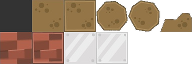
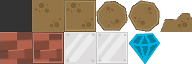
add diamonds

Changed region(s): [[0.6562, 0.5, 0.8438, 1.0]]

diff --git a/src/screens/MainScreen.js b/src/screens/MainScreen.js
@@ -6,6 +6,8 @@
 
         sheet: new Ω.SpriteSheet("res/tiles.png", 32, 32),
 
+        diamonds: 0,
+
         init: function () {
 
             var self = this;
@@ -16,9 +18,9 @@
                 [7, 2, 7, 4, 2, 4, 4, 4, 2, 7],
                 [7, 2, 2, 4, 2, 2, 2, 4, 2, 7],
                 [7, 2, 2, 2, 2, 2, 4, 4, 2, 7],
-                [7, 2, 7, 2, 2, 4, 2, 4, 2, 7],
-                [7, 2, 7, 7, 2, 4, 2, 2, 2, 7],
-                [7, 2, 2, 2, 2, 4, 2, 2, 2, 7],
+                [7, 3, 7, 2, 2, 4, 2, 4, 2, 7],
+                [7, 3, 7, 7, 2, 4, 2, 2, 2, 7],
+                [7, 3, 3, 2, 2, 4, 2, 2, 2, 7],
                 [7, 2, 2, 2, 2, 2, 2, 2, 2, 7],
                 [7, 2, 2, 2, 2, 2, 2, 2, 2, 7],
                 [7, 2, 2, 2, 2, 2, 2, 6, 2, 7],
@@ -26,7 +28,7 @@
                 [7, 2, 7, 4, 2, 4, 4, 4, 2, 7],
                 [7, 2, 2, 4, 2, 5, 4, 4, 2, 7],
                 [7, 2, 2, 2, 2, 2, 4, 4, 2, 7],
-                [7, 2, 2, 2, 2, 2, 2, 2, 2, 7],
+                [7, 3, 2, 2, 2, 2, 2, 2, 3, 7],
                 [7, 7, 7, 7, 7, 7, 7, 7, 7, 7],
             ], 2));
 
@@ -39,6 +41,10 @@
                     switch (c) {
                     case 2:
                         block = new blocks.Dirt(i, j);
+                        break;
+                    case 3:
+                        self.diamonds++;
+                        block = new blocks.Diamond(i, j);
                         break;
                     case 4:
                         block = new blocks.Boulder(i, j);
@@ -65,14 +71,6 @@
 
         },
 
-        eat: function (x, y) {
-            if (this.map.cells[y][x].type === "dirt") {
-                this.map.setBlockCell([x, y], new blocks.Empty(x, y));
-                return true;
-            }
-            return false;
-        },
-
         tick: function () {
             if (Ω.input.pressed("moused")) {
                 this.handleClick(Ω.input.mouse.x, Ω.input.mouse.y);
@@ -81,6 +79,14 @@
             if (Ω.input.pressed("touch")) {
                 this.handleClick(Ω.input.touch.x, Ω.input.touch.y);
             }
+        },
+
+        diamondGet: function () {
+
+            if (--this.diamonds === 0) {
+                game.reset();
+            }
+
         },
 
         handleClick: function (x, y) {
@@ -95,6 +101,12 @@
         render: function (gfx) {
 
             this.clear(gfx, "hsl(1, 1%, 1%)");
+
+            var c = gfx.ctx;
+
+            c.fillStyle = "#999";
+            c.fillText(this.diamonds, 10, Ω.env.h - 10);
+            c.fillText(this.player.xc + ":" + this.player.yc, Ω.env.w - 24, Ω.env.h - 10);
 
         }
     });

diff --git a/src/entities/Player.js b/src/entities/Player.js
@@ -4,8 +4,8 @@
 
     var Player = Ω.Entity.extend({
         
-        xc: 0,
-        yc: 0,
+        xc: 1,
+        yc: 1,
 
         dir: "",
 
@@ -66,7 +66,9 @@
             this.move(xo, yo, this.map);
 
             var xc = this.x / this.cellW | 0,
-                yc = this.y / this.cellH | 0;
+                yc = this.y / this.cellH | 0,
+                oldXc = this.xc,
+                oldYc = this.yc;
 
             // Check if new cell...
             if (xc !== this.xc || yc !== this.yc) {
@@ -75,10 +77,16 @@
                 if (this.xc === this.tx && this.yc === this.ty) {
 
                 } else {
-                    if (this.level.eat(xc, yc)) {
-                        this.map.cells[yc][xc] = blocks.PLAYER;
-                    };
-                    this.map.cells[this.yc][this.xc] = new blocks.Empty(this.xc, this.yc, 0);
+                    var block = this.map.cells[yc][xc].type;
+                    this.map.cells[oldYc][oldXc] = new blocks.Empty(oldXc, oldYc);
+                    
+                    if (block === "dirt") {
+                        this.map.setBlockCell([xc, yc], new blocks.Empty(xc, yc));
+                    } else if (block === "diamond") {
+                        this.map.setBlockCell([xc, yc], new blocks.Empty(xc, yc));
+                        this.level.diamondGet();
+                    }
+                    this.map.setBlockCell([xc, yc], blocks.PLAYER);
                 }
             }
 

diff --git a/src/blocks/Block.js b/src/blocks/Block.js
@@ -85,6 +85,13 @@
 	});
 	blocks.PLAYER = new blocks.Player(0, 0);
 
+	blocks.Diamond = Block.extend({
+		type: "diamond",
+		walkable: true,
+		row: 1,
+		col: 4
+	});
+
 	blocks.Dirt = Block.extend({
 		type: "dirt",
 		walkable: true,
@@ -100,7 +107,7 @@
 	blocks.Explosive = Block.extend({
 		type: "explosive",
 		explodable: true,
-		col: 3,
+		col: 1,
 		row: 1
 	});
 

diff --git a/index.js b/index.js
@@ -5,6 +5,8 @@ ejecta.include("./lib/Ω500.js");
 ejecta.include("lib/Ω500.js");
 ejecta.include("lib/BlockMap.js");
 ejecta.include("src/blocks/Block.js");
+ejecta.include("src/blocks/Amoeba.js");
+ejecta.include("src/blocks/Boulder.js");
 ejecta.include("src/game.js");
 ejecta.include("src/entities/Player.js");
 ejecta.include("src/screens/MainScreen.js");

diff --git a/src/blocks/Amoeba.js b/src/blocks/Amoeba.js
@@ -4,7 +4,8 @@
 
 	var Ameoba = Block.extend({
 		type: "ameoba",
-		col: 0,
+
+		col: 3,
 		row: 1,
 		spread: 300,
 
@@ -22,7 +23,6 @@
 			}
 
 			if ((frame - this.startFrame) % this.spread === this.spread - 1) {
-				console.log("exp, frame");
 				this.expand(map, frame);
 			}
 
